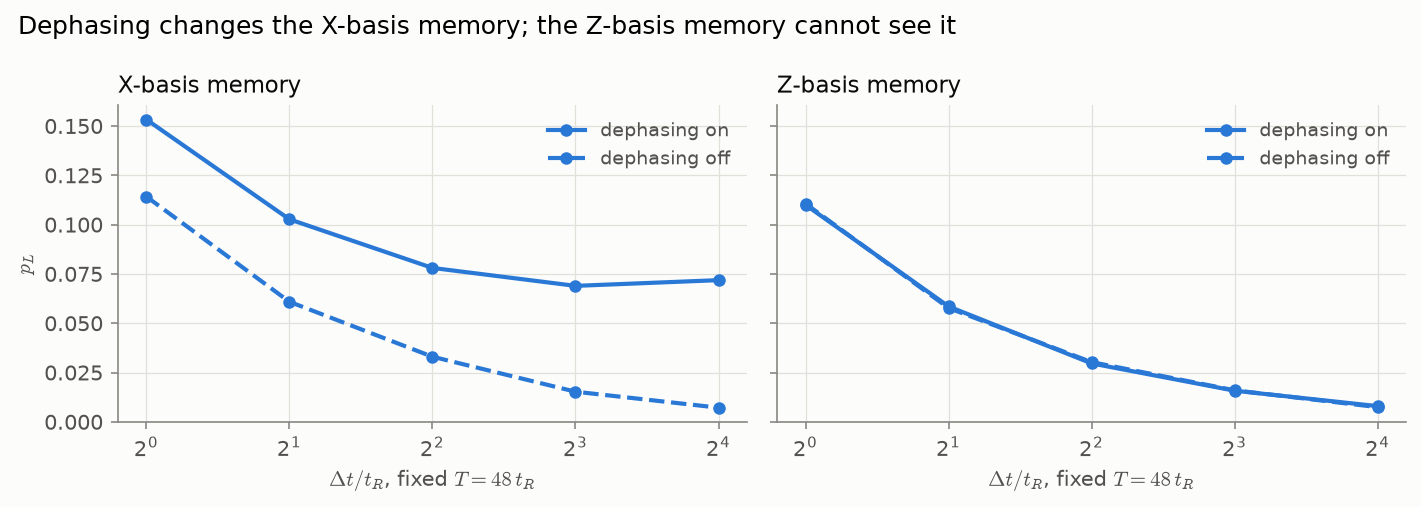
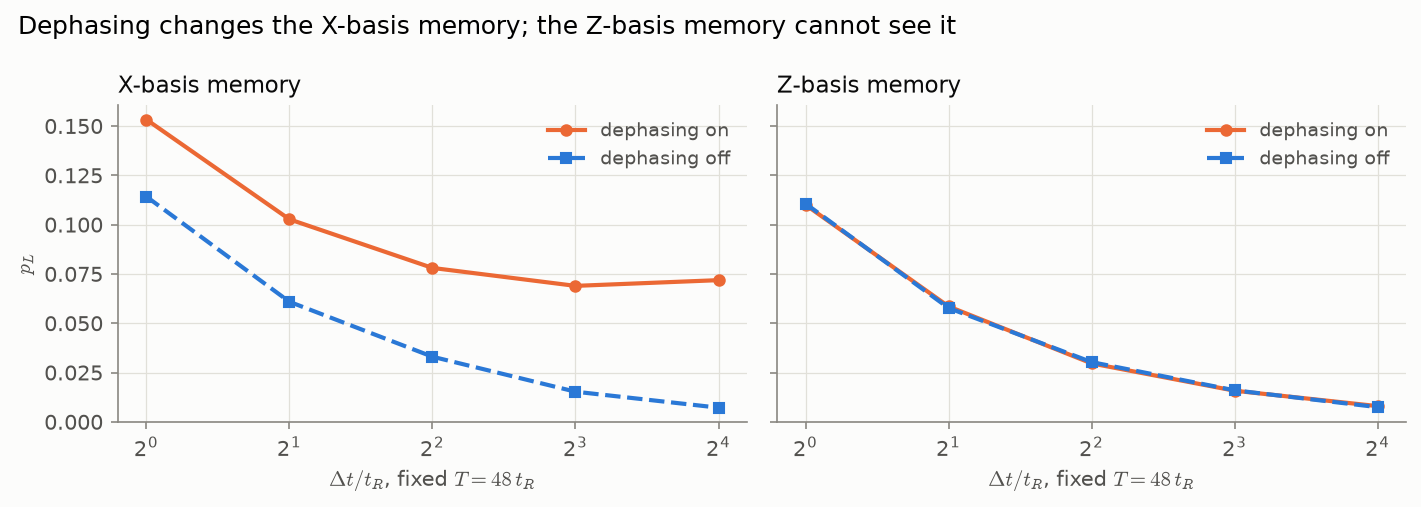
Notebook 03: distinct colours and markers for dephasing on/off

diff --git a/notebooks/_build.py b/notebooks/_build.py
@@ -346,9 +346,9 @@ for k, v in out.items():
 code('''
 fig, axes = plt.subplots(1, 2, figsize=(9.5, 3.4), sharey=True)
 for ax, basis in zip(axes, ("X", "Z")):
-    for label, ls in (("dephasing on", "-"), ("dephasing off", "--")):
+    for label, ls, c, m in (("dephasing on", "-", P.SERIES[1], "o"), ("dephasing off", "--", P.SERIES[0], "s")):
         dt, pl = zip(*out[(basis, label)])
-        ax.plot(dt, pl, ls, marker="o", color=P.SERIES[0], label=label)
+        ax.plot(dt, pl, ls, marker=m, ms=5, color=c, label=label)
     ax.legend(loc="upper right", fontsize=9)
     ax.set_xscale("log", base=2); ax.set_xlabel(r"$\\Delta t / t_R$, fixed $T = 48\\,t_R$")
     ax.set_title(f"{basis}-basis memory", loc="left")
